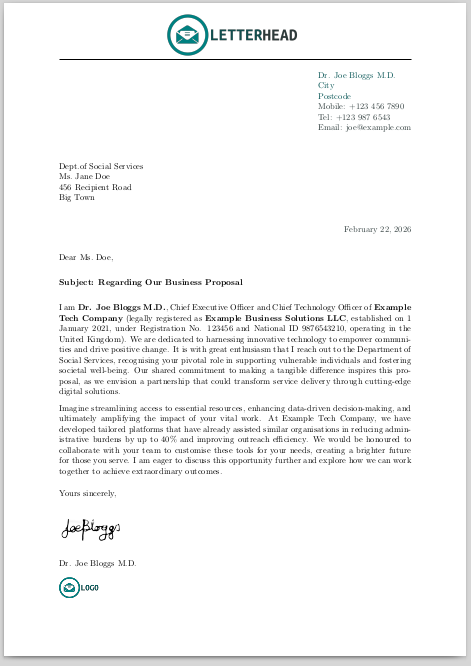
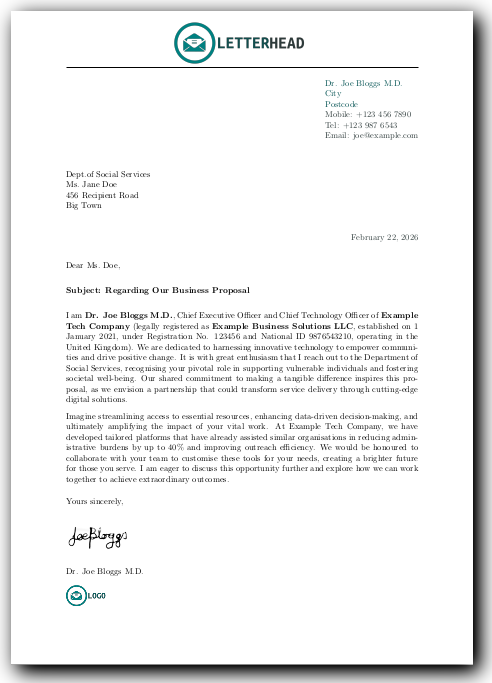
fix: minor changes
- update: sample letter
- add: word wrap to content
- fix: error in header

diff --git a/content.tex b/content.tex
@@ -12,11 +12,20 @@
 
 	\subjectline  % Insert subject below salutation
  
-I am \textbf{\sendername}, Chief Executive Officer and Chief Technology Officer of \textbf{Example Tech Company} (legally registered as \textbf{Example Business Solutions LLC}, established on 1 January 2021, under Registration No. 123456 and National ID 9876543210, operating in the United Kingdom). We are dedicated to harnessing innovative technology to empower communities and drive positive change. It is with great enthusiasm that I reach out to the Department of Social Services, recognising your pivotal role in supporting vulnerable individuals and fostering societal well-being. Our shared commitment to making a tangible difference inspires this proposal, as we envision a partnership that could transform service delivery through cutting-edge digital solutions.
+I am \textbf{\sendername}, Chief Executive Officer and Chief Technology Officer of \textbf{Example Tech Company} (legally
+registered as \textbf{Example Business Solutions LLC}, established on 1 January 2021, under Registration No. 123456 and National ID 9876543210, operating in the United Kingdom). We are dedicated to harnessing innovative technology to empower
+communities and drive positive change. It is with great enthusiasm that I reach out to the Department of Social Services,
+recognising your pivotal role in supporting vulnerable individuals and fostering societal well-being. Our shared commitment
+to making a tangible difference inspires this proposal, as we envision a partnership that could transform service delivery
+through cutting-edge digital solutions.
 
-Imagine streamlining access to essential resources, enhancing data-driven decision-making, and ultimately amplifying the impact of your vital work. At Example Tech Company, we have developed tailored platforms that have already assisted similar organisations in reducing administrative burdens by up to 40\% and improving outreach efficiency. We would be honoured to collaborate with your team to customise these tools for your needs, creating a brighter future for those you serve. I am eager to discuss this opportunity further and explore how we can work together to achieve extraordinary outcomes.
+Imagine streamlining access to essential resources, enhancing data-driven decision-making, and ultimately amplifying the
+impact of your vital work. At Example Tech Company, we have developed tailored platforms that have already assisted similar
+organisations in reducing administrative burdens by up to 40\% and improving outreach efficiency. We would be honoured to
+collaborate with your team to customise these tools for your needs, creating a brighter future for those you serve. I am
+eager to discuss this opportunity further and explore how we can work together to achieve extraordinary outcomes.
 
- 	\closing{\closingphrase}
+\closing{\closingphrase}
  
 
 \end{letter}

diff --git a/metadata.tex b/metadata.tex
@@ -1,7 +1,7 @@
 % Metadata Version: 3.5.2
 
 % Tone/context (e.g., formal, informal, business)
-\def\tone{formal}  % Set via config or database
+\def\tone{informal}  % Set via config or database
 
 % LOGO, letterhead, signature images
 \def\logo{\linebreak \includegraphics[height=2.5em]{assets/logo.png}} % Path to logo
@@ -23,7 +23,7 @@
 \ifthenelse{\equal{\useletterhead}{yes}}{
   \def\letterheadpath{assets/letterhead.png}
 }{}
-\fancyhead[C]{\includegraphics[height=5.0em,width=\textwidth,keepaspectratio]{\letterheadpath}}  % Update here; applies to current/next pages
+\fancyhead[C]{\includegraphics[height=4.0em,width=\textwidth,keepaspectratio]{\letterheadpath}}  % Update here; applies to current/next pages
 %\fancyhead[C]{Test Header}
 
 
@@ -76,7 +76,7 @@
 \long\def\closing#1{\par\nobreak\vspace{\parskip}%
   \stopletter%
   \noindent #1\par\nobreak%
-  \vspace*{1em}%
+  \vspace*{1em}%   % orginal: \vspace*{1em}%
   \noindent \fromsig \par}
 \makeatother
 
@@ -89,7 +89,7 @@
       \fromaddress \\*[2\parskip]%
       \end{tabular}\par}%
   \fi
-  \vspace*{0.5cm}% 
+  \vspace*{-0.5cm}%    \vspace*{0.5cm}% 
   {\raggedright \toname \\ \toaddress \par}%
   {\raggedleft  \textcolor{companygray}{\@date}\par} % Date here, after recipient
   \vspace{2\parskip}%

diff --git a/main.tex b/main.tex
@@ -2,7 +2,7 @@
 % main.tex v3.7
 \documentclass[11pt,a4paper]{letter}
 \usepackage{geometry}
-\geometry{top=2.5cm,bottom=2.0cm,left=2.5cm,right=2.5cm}
+\geometry{top=4.5cm,bottom=2.0cm,left=2.5cm,right=2.5cm,headheight=60pt}
 \usepackage{xcolor}
 \usepackage{graphicx}
 \usepackage{ifthen}  % For conditional salutations

diff --git a/README.md b/README.md
@@ -5,11 +5,9 @@
 [![GitHub top language](https://img.shields.io/github/languages/top/DavitTec/latex-letter-std-business?style=for-the-badge)](https://github.com/DavitTec/latex-letter-std-business)
 [![GitHub license](https://img.shields.io/github/license/DavitTec/latex-letter-std-business?style=for-the-badge)](https://github.com/DavitTec/latex-letter-std-business)
 
-
-
 This is a minimalist LaTeX template using **letter.cls** for professional business letters. It supports customisable sender/recipient details, tones (formal/informal), letterhead/logo, signatures, colours, and subject lines. Ideal for invitations, proposals, or formal correspondence.
 
-<img src="./assets/sample-business-letter.png" alt="image-20260222110001571" style="zoom:67%;" />
+![Sample Business Letter](./assets/sample-business-letter.png)
 
 ## Features
 
@@ -71,9 +69,9 @@ latex-letter-std-business/
 
 ## Customisation
 
-- Tone/Salutation: Set \def\tone{formal} in metadata.tex. 
-- Colours: Edit \definecolor in metadata.tex. 
-- Positions: Adjust \vspace* in \opening redefinition for sender/recipient/date. 
+- Tone/Salutation: Set \def\tone{formal} in metadata.tex.
+- Colours: Edit \definecolor in metadata.tex.
+- Positions: Adjust \vspace\* in \opening redefinition for sender/recipient/date.
 - Build Script: See [TODO.md](docs/TODO.md) for planned bash/JS script.
 
 ## License
